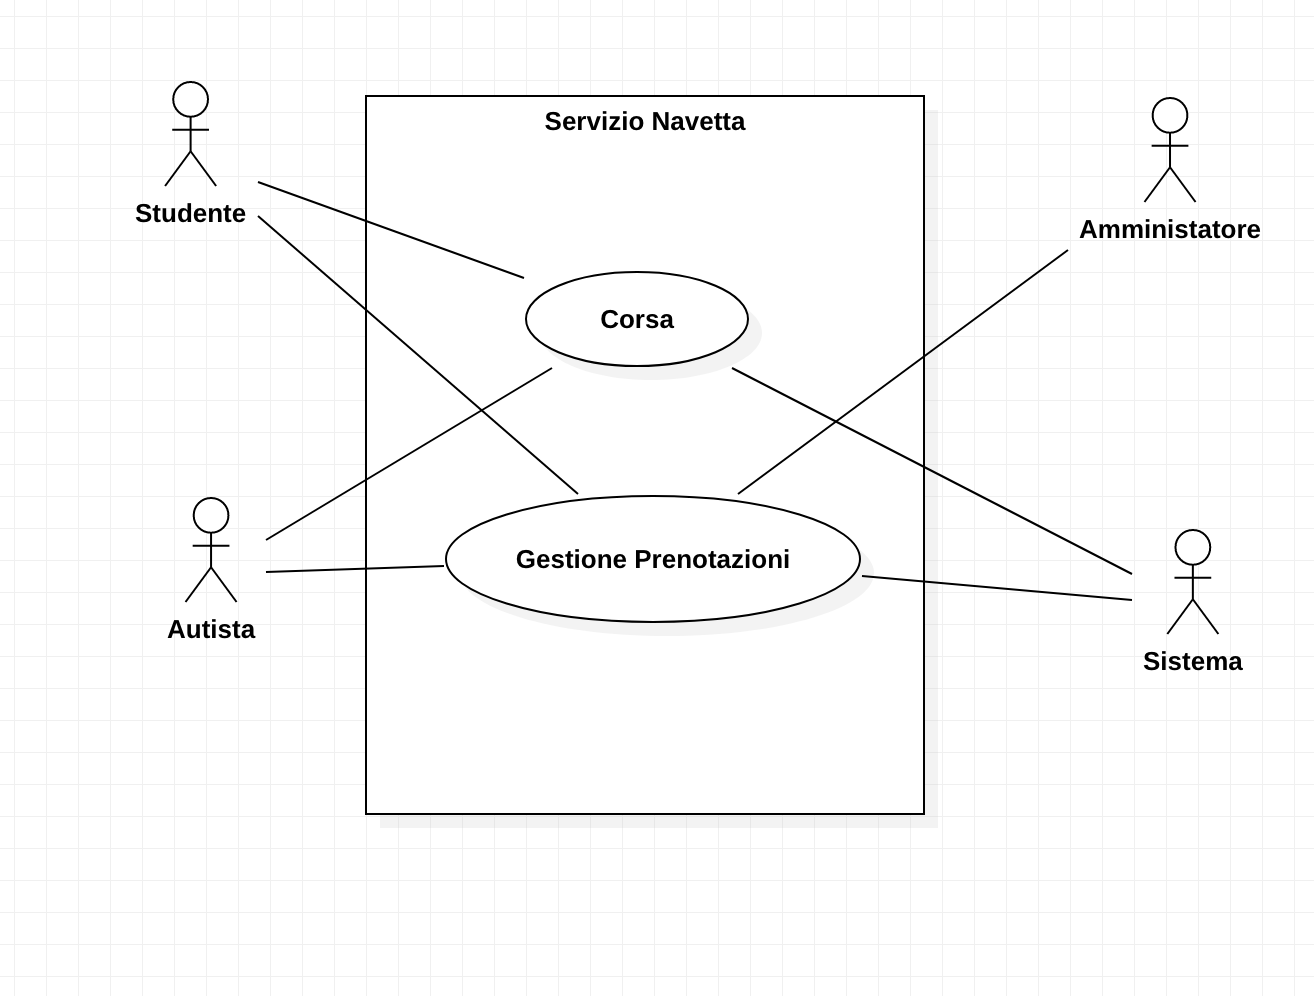
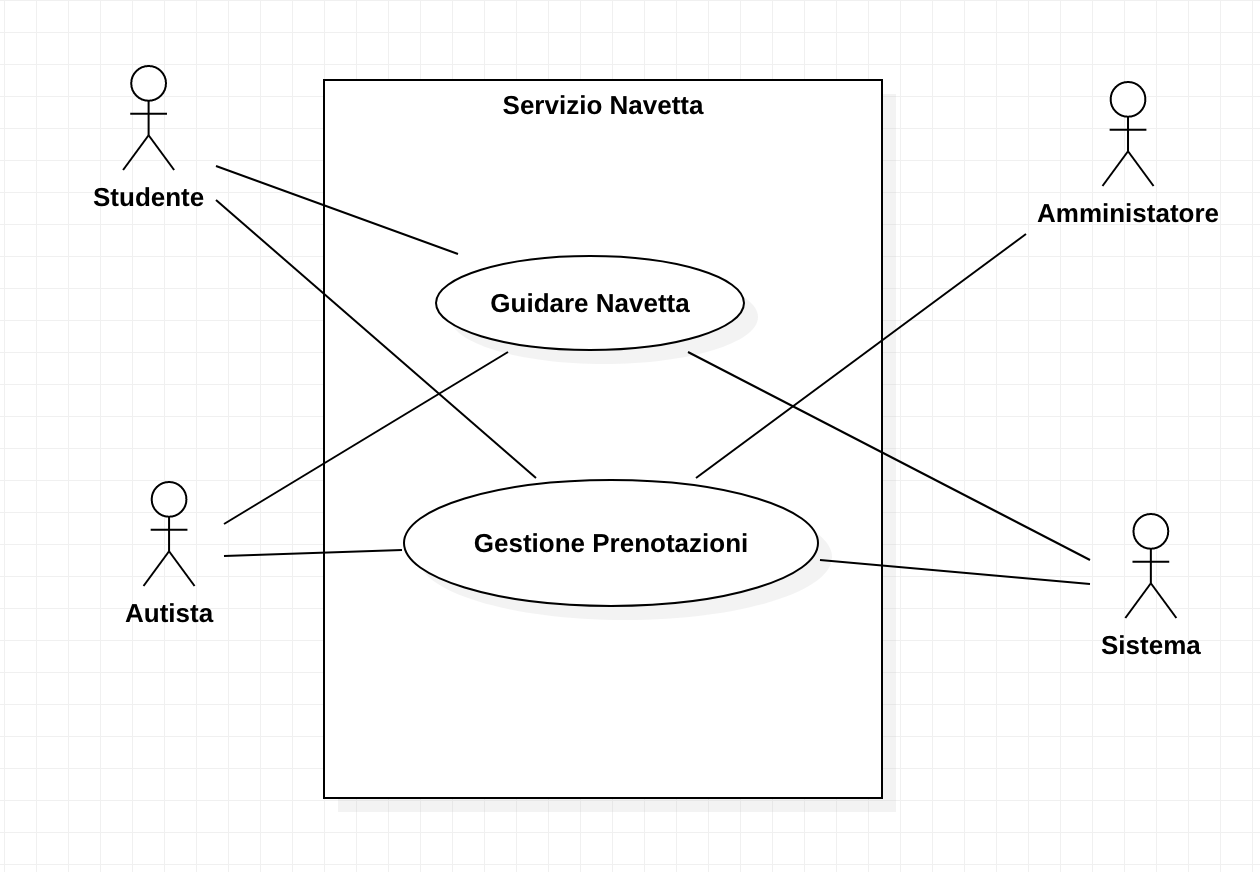
UC diagram review

diff --git a/docs/Use Cases/index.html b/docs/Use Cases/index.html
@@ -18,7 +18,7 @@
 	<h2>Casi d'uso</h2>
 	<ol>
 		<li><a href="GestirePrenotazioni.html">GESTIRE LE PRENOTAZIONI</a></li>
-		<li><a href="Corsa.html">CORSA</a></li>
+		<li><a href="Corsa.html">GUIDARE NAVETTA</a></li>
 	</ol>
 	<footer>
 		<h2>Possibili tecnologie da utilizzare</h2>
